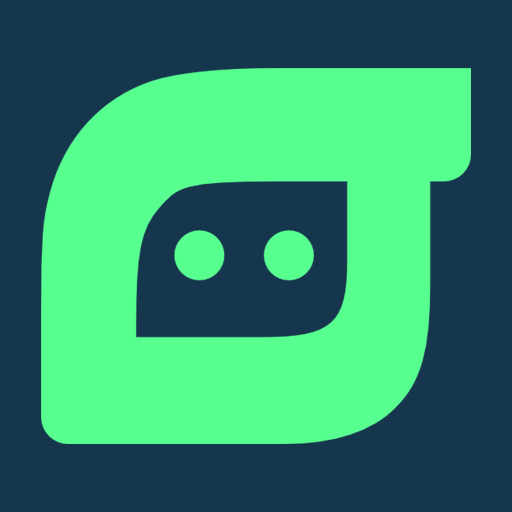
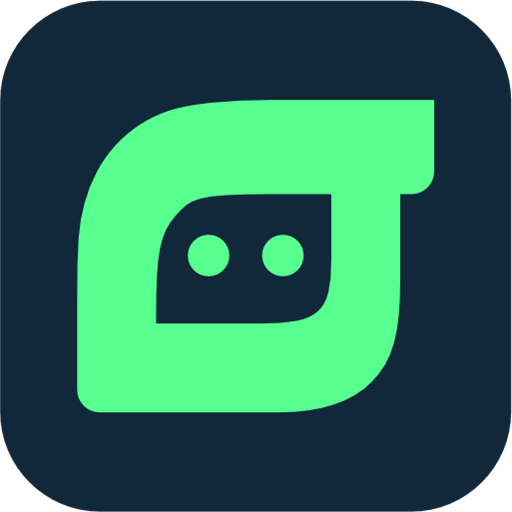
ajustes payment

diff --git a/app/layout.tsx b/app/layout.tsx
@@ -16,11 +16,11 @@ export const metadata = {
   },
   icons: {
     icon: [
-      { url: "/favicon.ico?v=mark3", sizes: "any" },
-      { url: "/icons/icon-192.png?v=mark3", sizes: "192x192", type: "image/png" },
-      { url: "/icons/icon-512.png?v=mark3", sizes: "512x512", type: "image/png" },
+      { url: "/favicon.ico?v=mark7", sizes: "any" },
+      { url: "/icons/icon-192.png?v=mark7", sizes: "192x192", type: "image/png" },
+      { url: "/icons/icon-512.png?v=mark7", sizes: "512x512", type: "image/png" },
     ],
-    apple: "/icons/apple-touch-icon.png?v=mark3",
+    apple: "/icons/apple-touch-icon.png?v=mark7",
   },
 };
 
